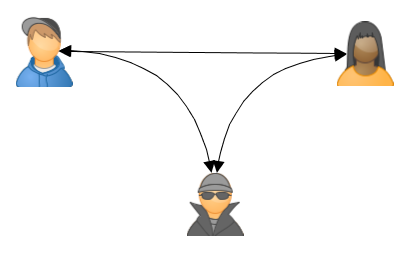
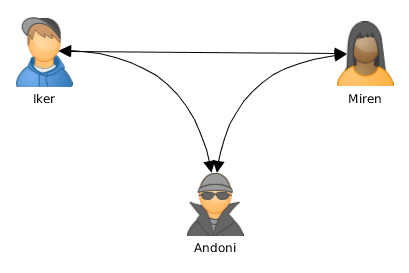
AC

Changed region(s): [[0.0293, 0.0618, 0.9682, 0.4015], [0.4401, 0.4015, 0.6161, 0.9266], [0.4401, 0.3707, 0.4694, 0.4324]]

diff --git a/Cifrado/index.html b/Cifrado/index.html
@@ -916,6 +916,51 @@ rondas (claves de 256)</li>
                 clave pública del otro y con su clave privada</p>
             <p>Andoni intercepta los mensajes, los lee, modifica y
                 los encripta con su clave privada</p>
+                <p><img  style="border: 1px solid #555;"  src="pictures-sgssi-01/AndoniIkerMirenManInTheMiddleDetalles.png" alt="criptosistema clave privada" width="40%"></p>
+        </section>
+
+        <section class="slide">
+            <h2>Criptografía de clave pública</h2>
+            <p>Iker y Miren creen que están comunicándose de
+                manera segura</p>
+            <p>Andoni está enterándose de todo y modificándolo a su
+                antojo</p>    
+            <p>Formas de evitarlo:
+                <ul>
+                    <li>Paso de claves en canales "seguros"</li>
+                    <li>Uso de una autoridad que certifique que una clave
+                        pública pertenece a quien dice: Autoridad de Certificación (AC)</li>
+                </ul>
+            </p>
+
+        </section>
+
+        <section class="slide">
+            <h2>Criptografía de clave pública</h2>
+            <p><img  style="border: 1px solid #555;"  src="pictures-sgssi-01/AC.png" alt="criptosistema clave privada" width="40%"></p>
+
+        </section>
+
+        <section class="slide">
+            <h2>Cifrado híbrido</h2>
+            <p>Los sistemas de clave secreta son mucho más rápidos
+                que los de clave pública</p>
+            <p>Muchas veces se usa una combinación: El sistema de
+                    clave pública se usa para compartir una clave secreta
+                    S que sólo se usa una vez</p>
+            <p>El sistema de clave secreta usa S para cifrar el
+                mensaje</p>
+
+        </section>
+
+        <section class="slide">
+            <h2>Cifrado híbrido</h2>
+            <p>Miren genera una clave secreta S y cifra su mensaje
+                usándola: cm = e1 (m,S)</p>
+            <p>Miren cifra S usando la clave pública de Iker
+                cs = e2 ( S , I<sub>pública</sub> )</p>
+            <p>Miren manda [ cm, cs ] a Iker</p>
+
         </section>
     
     <!-- FOOTER -->
